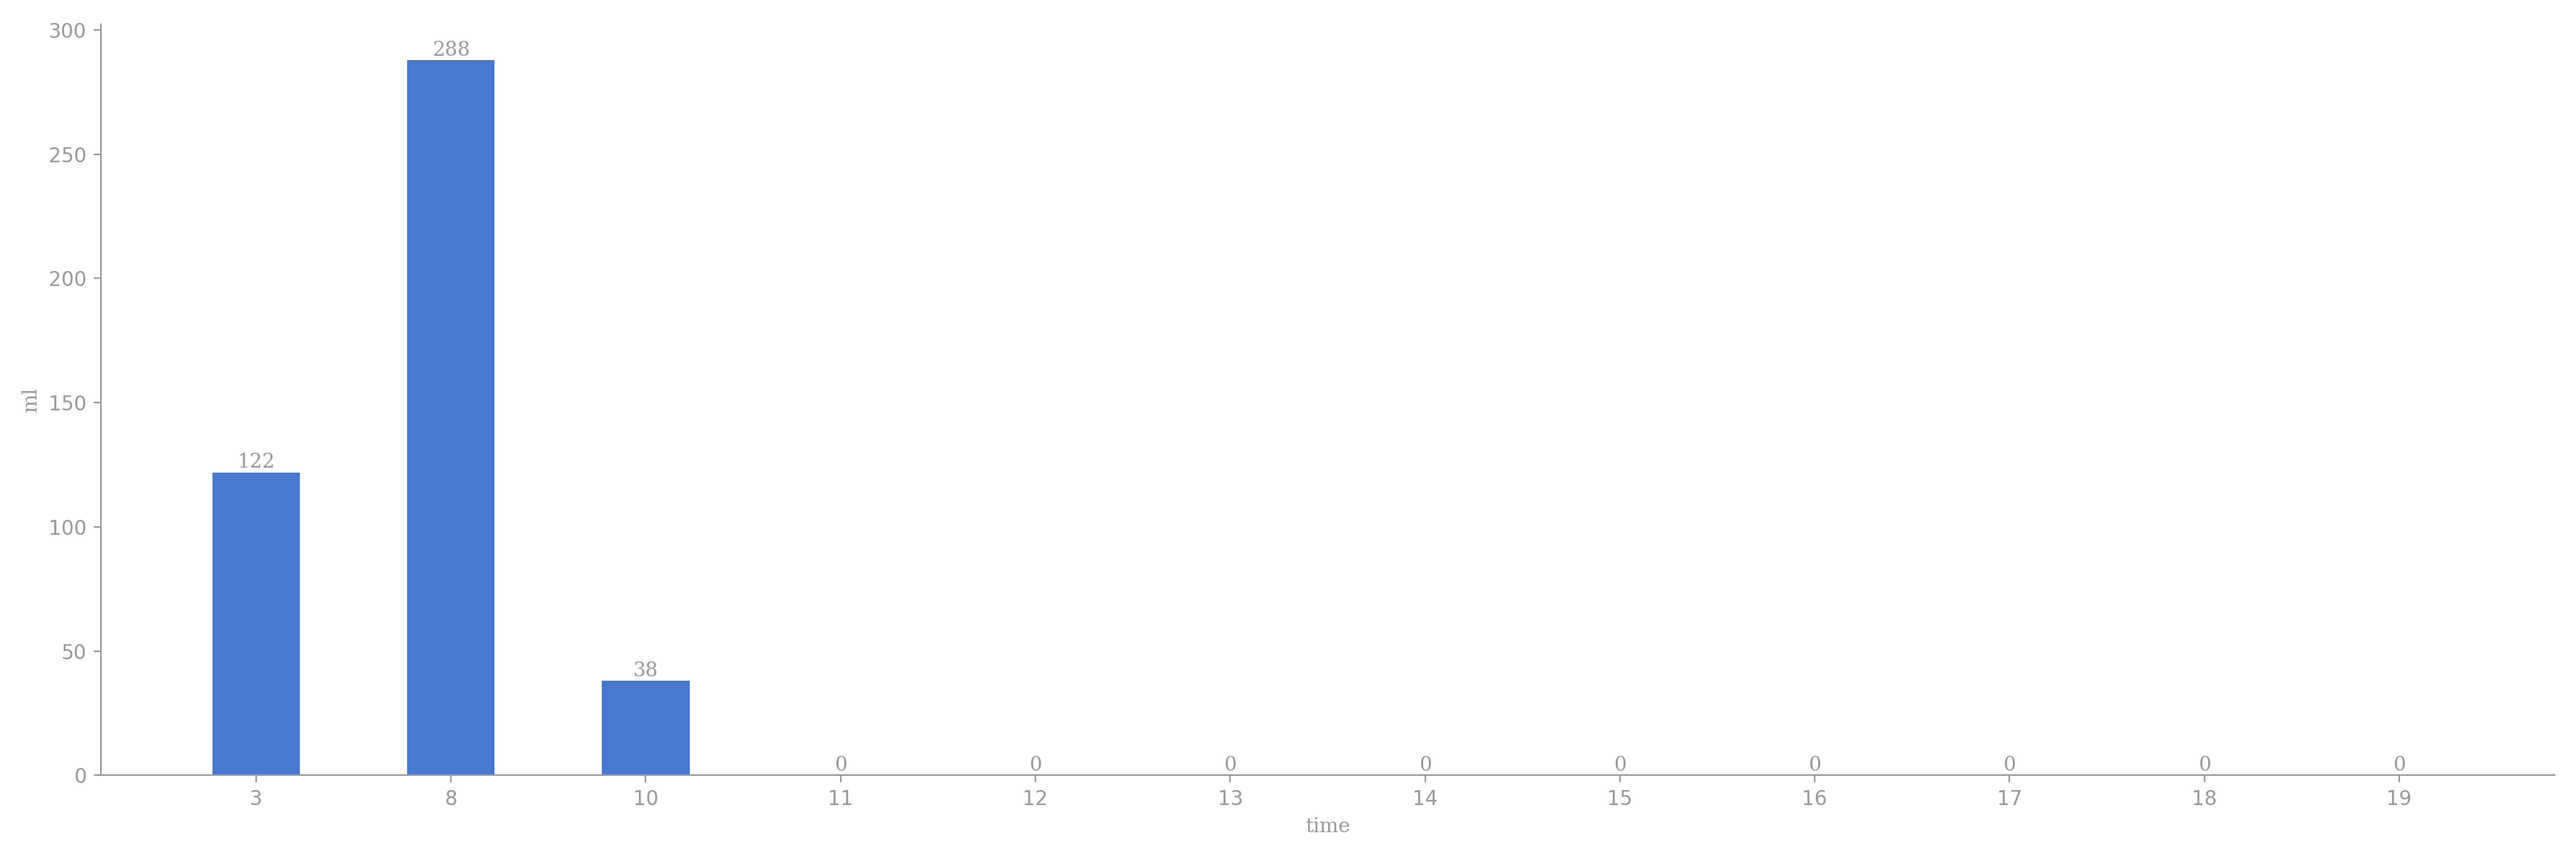
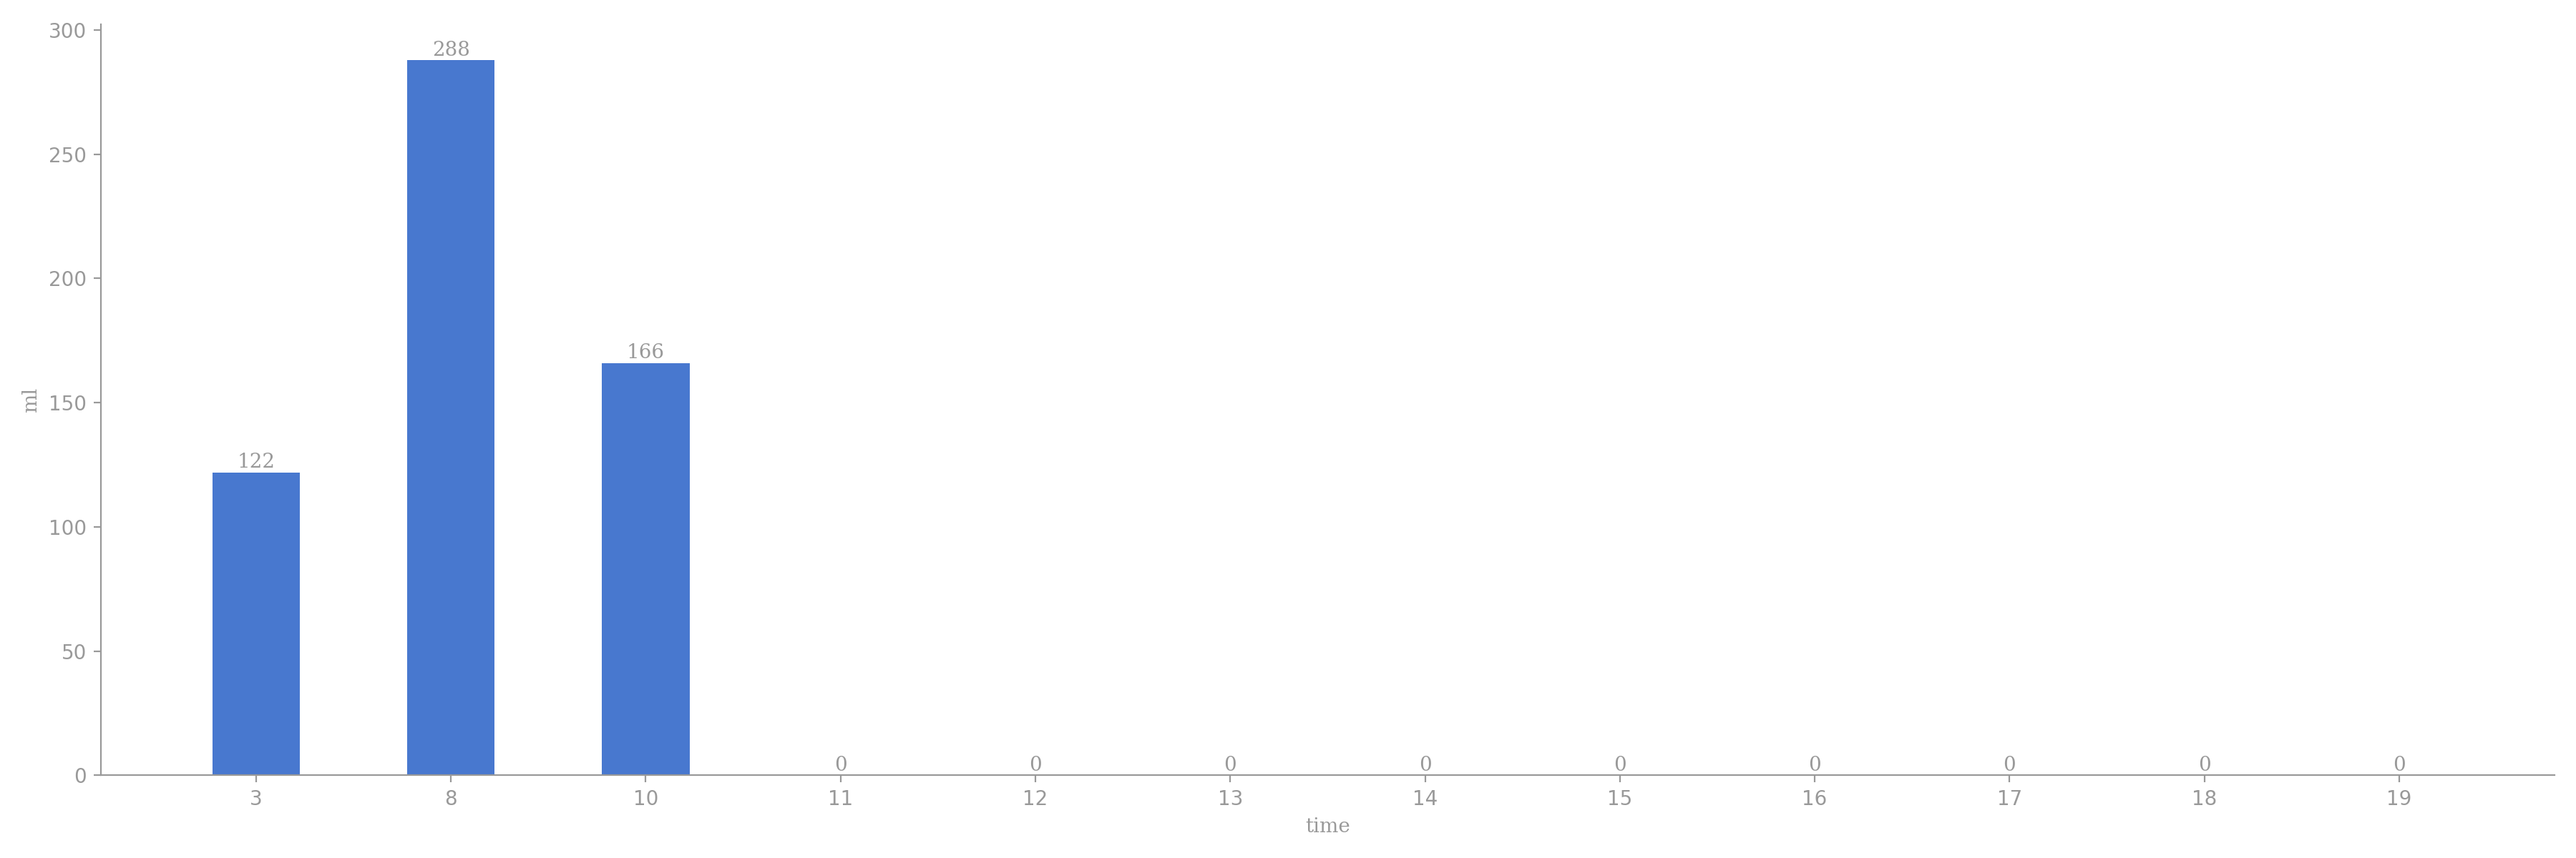
generated readme

Changed region(s): [[0.2178, 0.4008, 0.28, 0.8017]]

diff --git a/README.md b/README.md
@@ -5,12 +5,12 @@
 
 | 今日总饮水量 | 每小时平均饮水量 |
 | :----: | :----: |
-| 448 | 149 |
+| 576 | 192 |
 </div>
 
-| 日期 | 03:06:40 | 08:15:25 | 08:43:41 | 10:12:48 |
-| :----: | :----: | :----: | :----: | :----: |
-| 2024-06-25 | 122 | 220 | 68 | 38 |
+| 日期 | 03:06:40 | 08:15:25 | 08:43:41 | 10:12:48 | 10:59:28 |
+| :----: | :----: | :----: | :----: | :----: | :----: |
+| 2024-06-25 | 122 | 220 | 68 | 38 | 128 |
 
 # 近30日饮水数据
 
